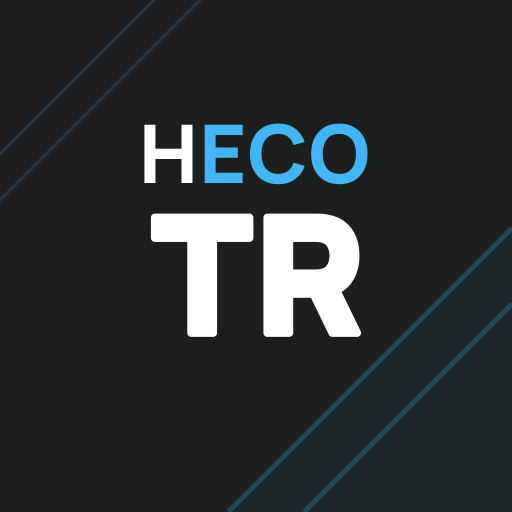
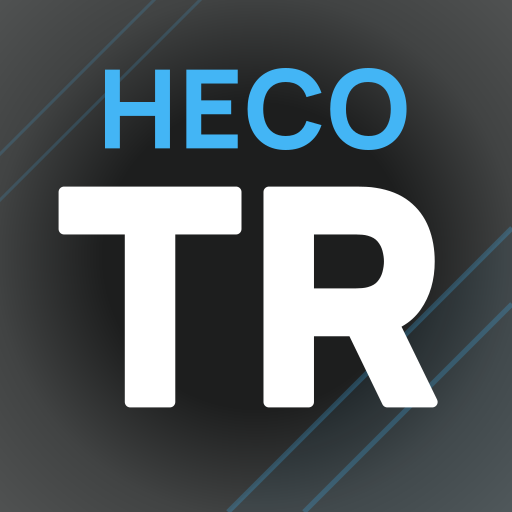
2609 1027

diff --git a/TR-Frontend/vite.config.js b/TR-Frontend/vite.config.js
@@ -37,7 +37,7 @@ export default defineConfig({
         // safe-area зоны в App.jsx. Новый цвет доедет до установленных приложений
         // не сразу: Chrome сверяет манифест примерно раз в сутки и пересобирает WebAPK.
         theme_color: '#242424',
-        background_color: '#e2e4e7', // Стандартный фон системного Splash Screen.
+        background_color: '#1D1E1E', // Графитовый фон системного Splash Screen, как в центре иконки.
         
         display: 'standalone',
         orientation: 'portrait',
